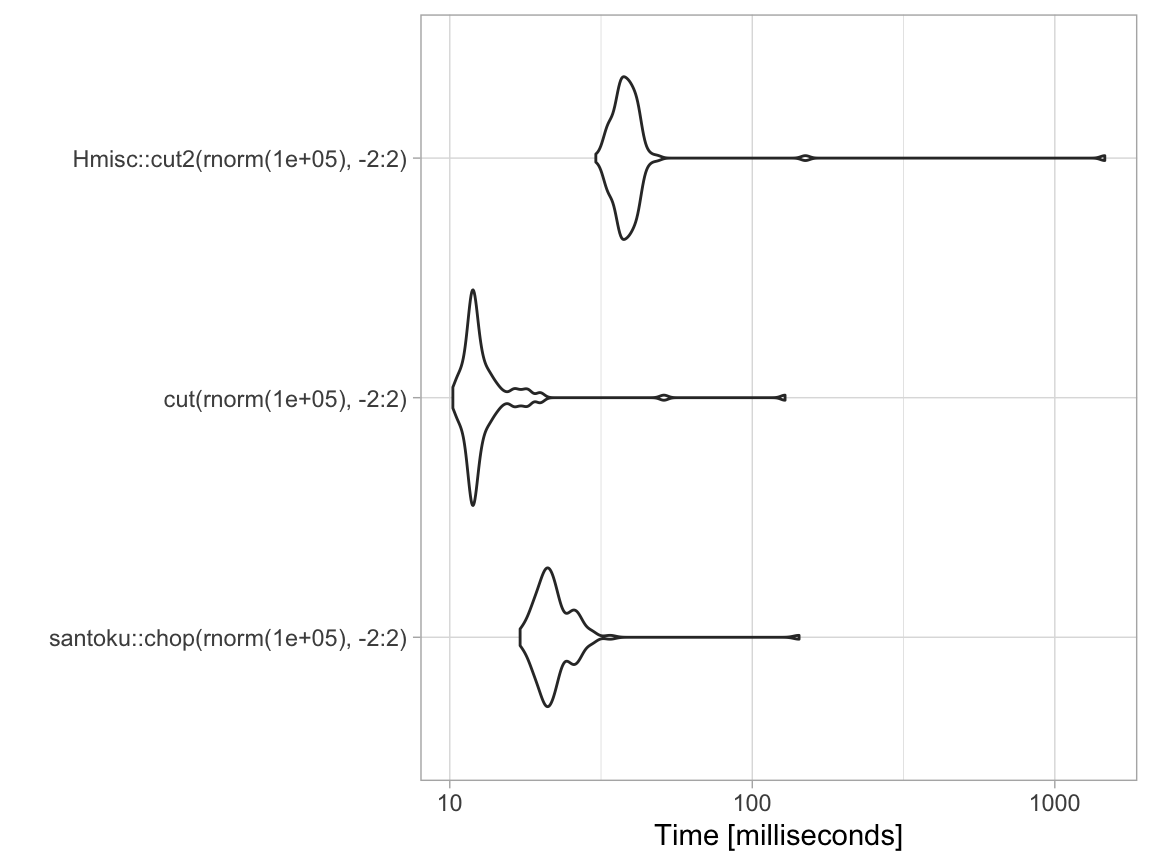
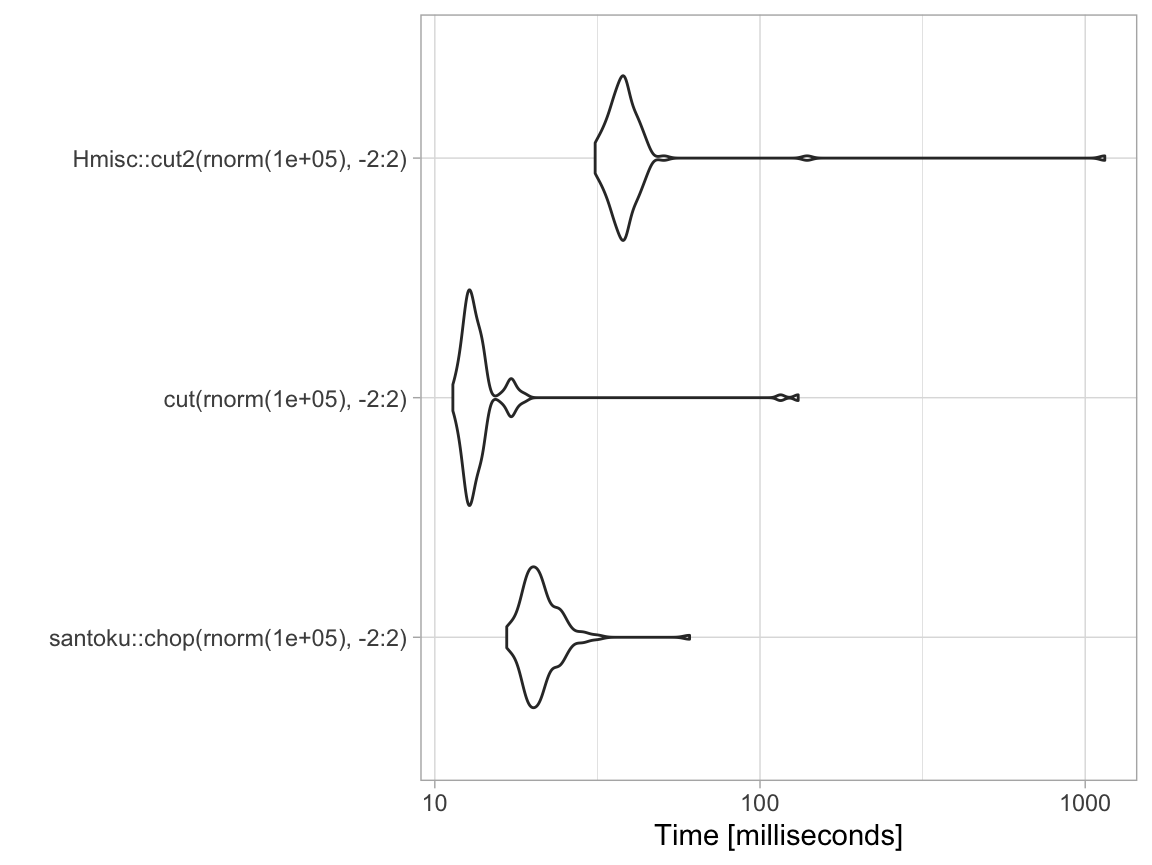
tweaks to visual-intro

diff --git a/docs/articles/website-articles/performance.html b/docs/articles/website-articles/performance.html
@@ -134,13 +134,13 @@
 <span class="no">mb</span>
 <span class="co">#&gt; Unit: milliseconds</span>
 <span class="co">#&gt;                               expr      min       lq     mean   median       uq</span>
-<span class="co">#&gt;  santoku::chop(rnorm(1e+05), -2:2) 17.08100 20.13888 23.30020 21.46940 23.56776</span>
-<span class="co">#&gt;            cut(rnorm(1e+05), -2:2) 10.23891 11.73721 14.26908 12.05713 13.23055</span>
-<span class="co">#&gt;    Hmisc::cut2(rnorm(1e+05), -2:2) 30.39626 36.08008 53.44986 38.18002 40.64317</span>
-<span class="co">#&gt;        max neval cld</span>
-<span class="co">#&gt;   142.7800   100  a </span>
-<span class="co">#&gt;   128.3219   100  a </span>
-<span class="co">#&gt;  1462.9672   100   b</span></pre></body></html></div>
+<span class="co">#&gt;  santoku::chop(rnorm(1e+05), -2:2) 16.64036 19.42368 21.52735 20.67242 22.57320</span>
+<span class="co">#&gt;            cut(rnorm(1e+05), -2:2) 11.36406 12.53543 15.64737 13.05114 13.90347</span>
+<span class="co">#&gt;    Hmisc::cut2(rnorm(1e+05), -2:2) 31.12147 35.46452 49.98543 37.96964 40.37487</span>
+<span class="co">#&gt;         max neval cld</span>
+<span class="co">#&gt;    60.73155   100  a </span>
+<span class="co">#&gt;   131.03554   100  a </span>
+<span class="co">#&gt;  1148.71255   100   b</span></pre></body></html></div>
 <div class="sourceCode" id="cb2"><html><body><pre class="r"><span class="kw pkg">ggplot2</span><span class="kw ns">::</span><span class="fu"><a href="https://ggplot2.tidyverse.org/reference/autoplot.html">autoplot</a></span>(<span class="no">mb</span>) + <span class="kw pkg">ggplot2</span><span class="kw ns">::</span><span class="fu"><a href="https://ggplot2.tidyverse.org/reference/ggtheme.html">theme_light</a></span>()
 <span class="co">#&gt; Coordinate system already present. Adding new coordinate system, which will replace the existing one.</span></pre></body></html></div>
 <p><img src="performance_files/figure-html/unnamed-chunk-2-1.png" width="576"></p>
